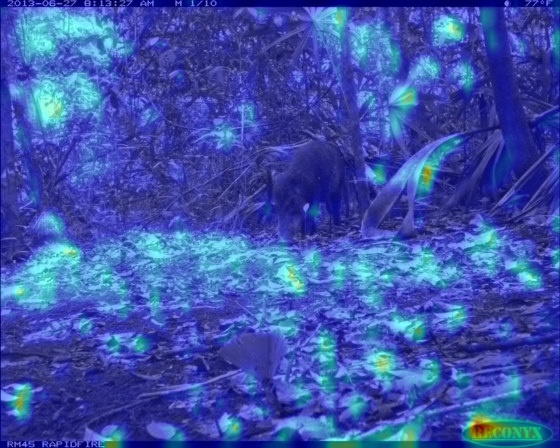
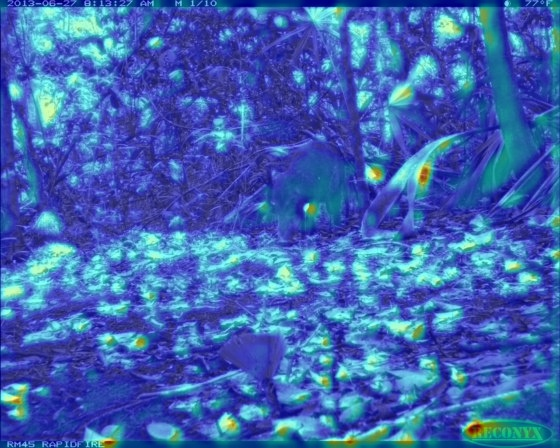
new results

diff --git a/visualize.py b/visualize.py
@@ -14,8 +14,12 @@ model = models.load_modified_pre_trained('resnet18', 4)
 # Place model on device
 # model = model.to(device)
 
+# parameters to adjust for different results to be generated
+imagePath = r'D:\Documents\4th Year\CSC413\Final-Project'
+model_filename = 'resnet18_20e_overlap_model'
+imageName = 'boar.jpg' # swap around based on image wanted
+
 # Load the weights
-model_filename = 'tested_model_20'
 model.load_state_dict(torch.load(model_filename, map_location=torch.device('cpu')))
 
 # model = resnet50(pretrained=True) # TO SWAP OUT WITH OUR MODEL
@@ -24,8 +28,7 @@ target_layer2 = model.layer2[-1] # TO ADJUST IF OUR MODEL HAS MORE LAYERS (I.E. 
 target_layer3 = model.layer3[-1] # TO ADJUST IF OUR MODEL HAS MORE LAYERS (I.E. OUTPUT LAYER NUMBER IS DIFFERENT)
 target_layer4 = model.layer4[-1] # TO ADJUST IF OUR MODEL HAS MORE LAYERS (I.E. OUTPUT LAYER NUMBER IS DIFFERENT)
 target_layers = [target_layer1, target_layer2, target_layer3, target_layer4]
-imagePath = r'D:\Documents\4th Year\CSC413\Final-Project'
-imageName = 'boar.jpg' # swap around based on image wanted
+
 
 print(os.path.join(imagePath, imageName))
 rgb_img = cv2.imread(os.path.join(imagePath, imageName), 1)[:, :, ::-1]
